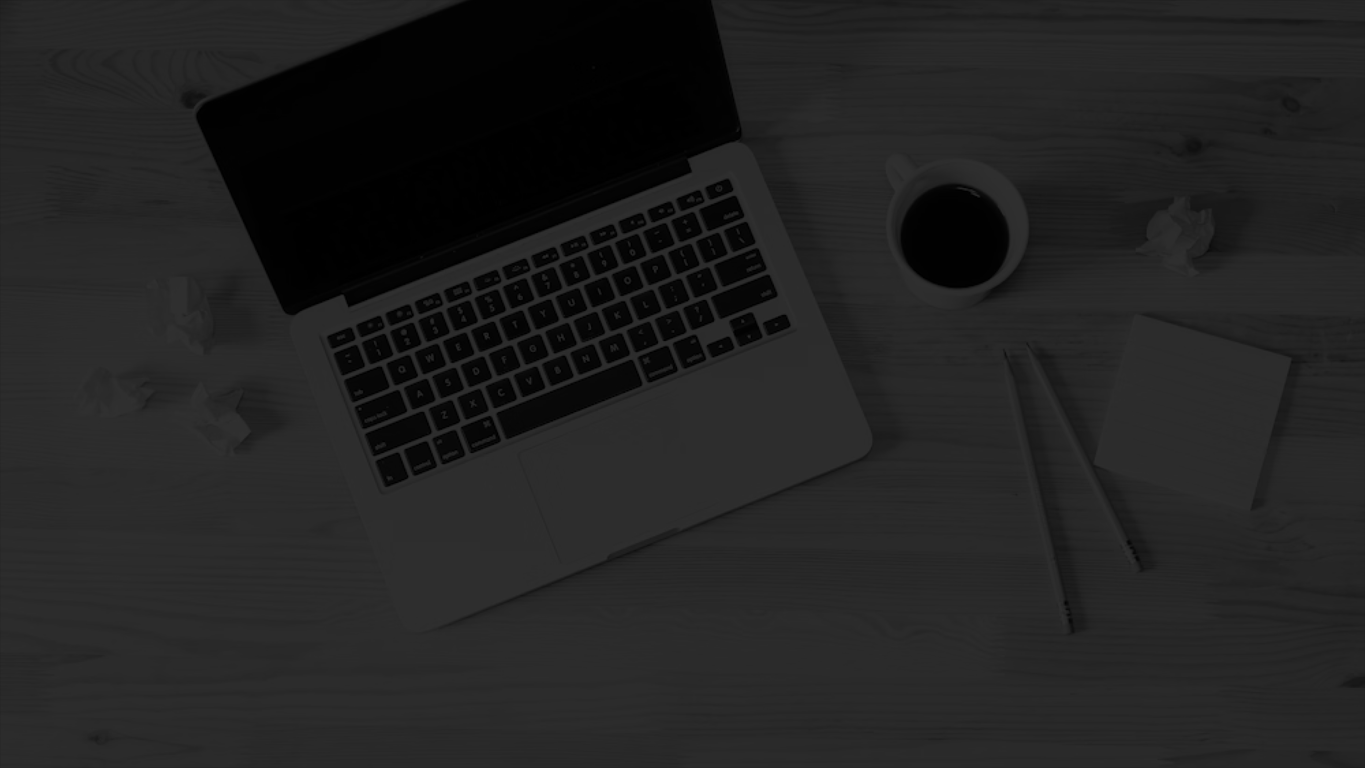
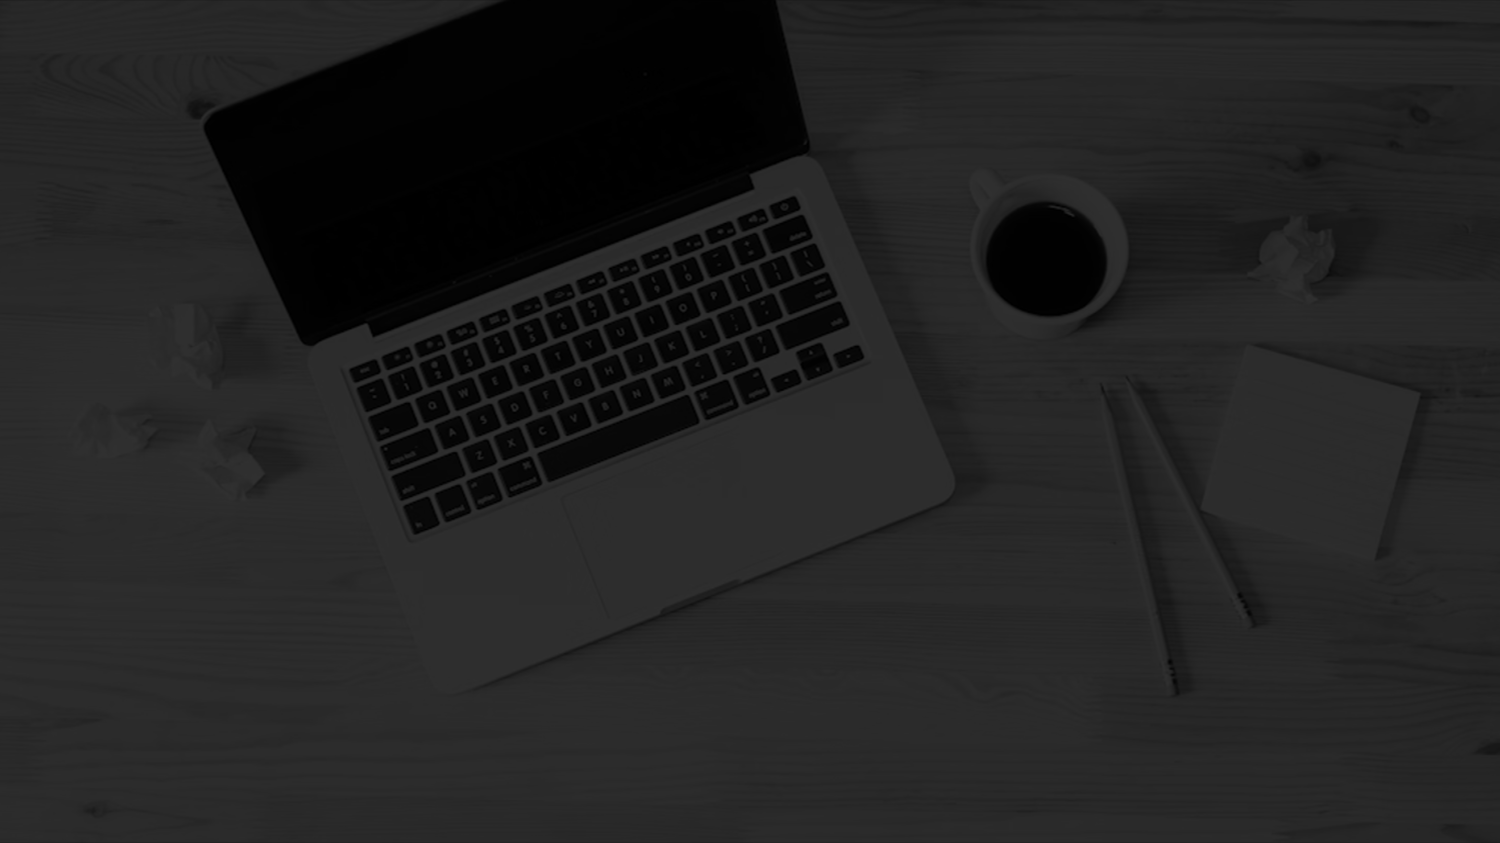
fix: background size

Changed region(s): [[0.1538, 0.2188, 0.5846, 0.625], [0.1231, 0.125, 0.1538, 0.2188]]

diff --git a/css/main.css b/css/main.css
@@ -119,8 +119,6 @@ body {
     color: var(--color-primary);
 
     background: url("../images/bg2.png") no-repeat, var(--color-bg);
-    background-size: cover;
-
 }
 
 /* EXTRA SMALL DEVICES SETTINGS */
